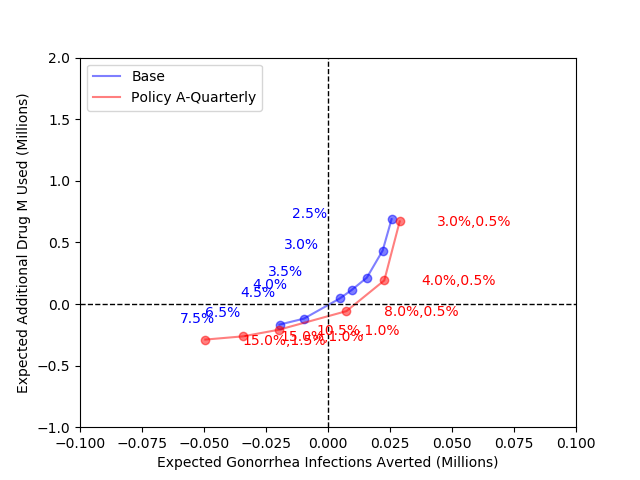
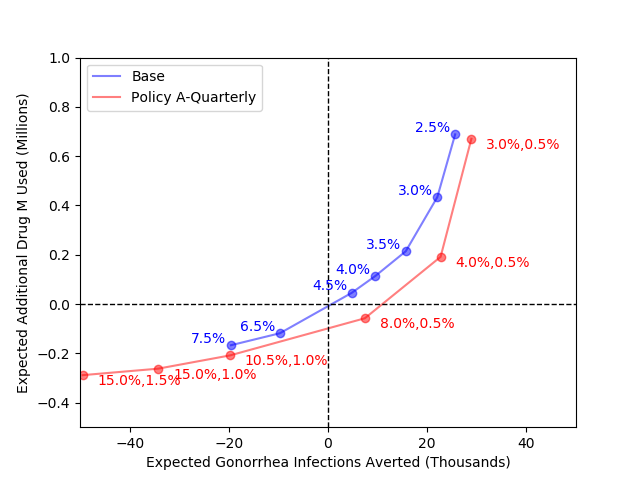
updating gonorrhea analysis

diff --git a/gonorrhea/SABaseAndQuarterlyA.py b/gonorrhea/SABaseAndQuarterlyA.py
@@ -18,23 +18,23 @@ series = [
     Cls.Series('Base', 'blue',
                variable_conditions=varBaseConditions,
                if_find_frontier=True,
-               labels_shift_x=-0.04,
+               labels_shift_x=-8,
                labels_shift_y=0.01),
     Cls.Series('Policy A-Quarterly', 'red',
                variable_conditions=varPolicyAQuarterlyConditions,
                if_find_frontier=True,
-               labels_shift_x=0.015,
+               labels_shift_x=3,
                labels_shift_y=-0.04)
 ]
 
 # populate series
-Cls.populate_series(series, csv_filename=Set.SELECTED_SA_FILE_NAME, x_axis_multiplier=1 / 1e6, y_axis_multiplier=1 / 1e6)
+Cls.populate_series(series, csv_filename=Set.SELECTED_SA_FILE_NAME, x_axis_multiplier=1 / 1e3, y_axis_multiplier=1 / 1e6)
 
 # plot
 Cls.plot_series(series=series,
-                x_label='Expected Gonorrhea Infections Averted (Millions)',
+                x_label='Expected Gonorrhea Infections Averted (Thousands)',
                 y_label='Expected Additional Drug M Used (Millions)',
                 file_name='-Base vs Quarterly A.png',
-                x_range=(-0.1, 0.1),
-                y_range=(-1, 2)
+                x_range=(-50, 50),
+                y_range=(-0.5, 1)
                 )

diff --git a/gonorrhea/SABaseAndQuarterlyBase.py b/gonorrhea/SABaseAndQuarterlyBase.py
@@ -18,23 +18,23 @@ series = [
     Cls.Series('Base', 'blue',
                variable_conditions=varBaseConditions,
                if_find_frontier=True,
-               labels_shift_x=-0.04,
+               labels_shift_x=-8,
                labels_shift_y=0.01),
     Cls.Series('Base-Quarterly', 'red',
                variable_conditions=varBaseQuarterlyConditions,
                if_find_frontier=True,
-               labels_shift_x=0.01,
+               labels_shift_x=3,
                labels_shift_y=-0.05)
 ]
 
 # populate series
-Cls.populate_series(series, csv_filename=Set.SELECTED_SA_FILE_NAME, x_axis_multiplier=1 / 1e6, y_axis_multiplier=1 / 1e6)
+Cls.populate_series(series, csv_filename=Set.SELECTED_SA_FILE_NAME, x_axis_multiplier=1 / 1e3, y_axis_multiplier=1 / 1e6)
 
 # plot
 Cls.plot_series(series=series,
-                x_label='Expected Gonorrhea Infections Averted (Millions)',
+                x_label='Expected Gonorrhea Infections Averted (Thousands)',
                 y_label='Expected Additional Drug M Used (Millions)',
                 file_name='-Base vs Quarterly Base.png',
-                x_range=(-0.1, 0.1),
-                y_range=(-1, 2)
+                x_range=(-50, 50),
+                y_range=(-0.5, 1)
                 )

diff --git a/gonorrhea/SABaseAndA.py b/gonorrhea/SABaseAndA.py
@@ -18,23 +18,23 @@ series = [
     Cls.Series('Base', 'blue',
                variable_conditions=varBaseConditions,
                if_find_frontier=True,
-               labels_shift_x=-0.04,
+               labels_shift_x=-8,
                labels_shift_y=0.01),
     Cls.Series('Policy A', 'red',
                variable_conditions=varPolicyAConditions,
                if_find_frontier=True,
-               labels_shift_x=0.015,
+               labels_shift_x=3,
                labels_shift_y=-0.04)
 ]
 
 # populate series
-Cls.populate_series(series, csv_filename=Set.SELECTED_SA_FILE_NAME, x_axis_multiplier=1 / 1e6, y_axis_multiplier=1 / 1e6)
+Cls.populate_series(series, csv_filename=Set.SELECTED_SA_FILE_NAME, x_axis_multiplier=1 / 1e3, y_axis_multiplier=1 / 1e6)
 
 # plot
 Cls.plot_series(series=series,
-                x_label='Expected Gonorrhea Infections Averted (Millions)',
+                x_label='Expected Gonorrhea Infections Averted (Thousands)',
                 y_label='Expected Additional Drug M Used (Millions)',
                 file_name='-Base vs A.png',
-                x_range=(-0.1, 0.1),
-                y_range=(-1, 2)
+                x_range=(-50, 50),
+                y_range=(-0.5, 1)
                 )

diff --git a/gonorrhea/SABase.py b/gonorrhea/SABase.py
@@ -13,18 +13,18 @@ series = [
     Cls.Series('Base', 'blue',
                variable_conditions=varConditions,
                if_find_frontier=True,
-               labels_shift_x=-0.04,
+               labels_shift_x=-8,
                labels_shift_y=0.01)
 ]
 
 # populate series
-Cls.populate_series(series, csv_filename=Set.SELECTED_SA_FILE_NAME, x_axis_multiplier=1 / 1e6, y_axis_multiplier=1 / 1e6)
+Cls.populate_series(series, csv_filename=Set.SELECTED_SA_FILE_NAME, x_axis_multiplier=1 / 1e3, y_axis_multiplier=1 / 1e6)
 
 # plot
 Cls.plot_series(series=series,
-                x_label='Expected Gonorrhea Infections Averted (Millions)',
+                x_label='Expected Gonorrhea Infections Averted (Thousands)',
                 y_label='Expected Additional Drug M Used (Millions)',
                 file_name='-Base.png',
-                x_range=(-0.1, 0.1),
-                y_range=(-1, 2)
+                x_range=(-50, 50),
+                y_range=(-0.5, 1)
                 )

diff --git a/gonorrhea/GonoCalibration.py b/gonorrhea/GonoCalibration.py
@@ -2,10 +2,11 @@ from apace import TrajectoriesClasses as Vis
 from gonorrhea import GonoData as D
 from gonorrhea import Settings as Set
 
+SIM_LENGTH = 25+1+25  # simulation length in years
 
 Vis.OUTPUT_TYPE = Vis.OutType.JPG    # figure output
 Vis.X_LABEL = 'Year'
-Vis.X_RANGE = [-1, 26]
+Vis.X_RANGE = [-1, SIM_LENGTH]
 Vis.X_TICKS = [0, 5]
 Vis.DEFAULT_FONT_SIZE = 7
 Vis.Y_LABEL_COORD_X = -0.24
@@ -13,7 +14,6 @@ Vis.SUBPLOT_W_SPACE = 1
 Vis.SUBPLOT_H_SPACE = 0.7
 
 RESIST_PROFILE = ['A', 'B', 'AB']       # resistant profiles
-SIM_LENGTH = 26  # simulation length in years
 
 # create a trajectory data frame
 df = Vis.TrajsDataFrame(Set.SELECTED_CALIB_FILE_NAME)
